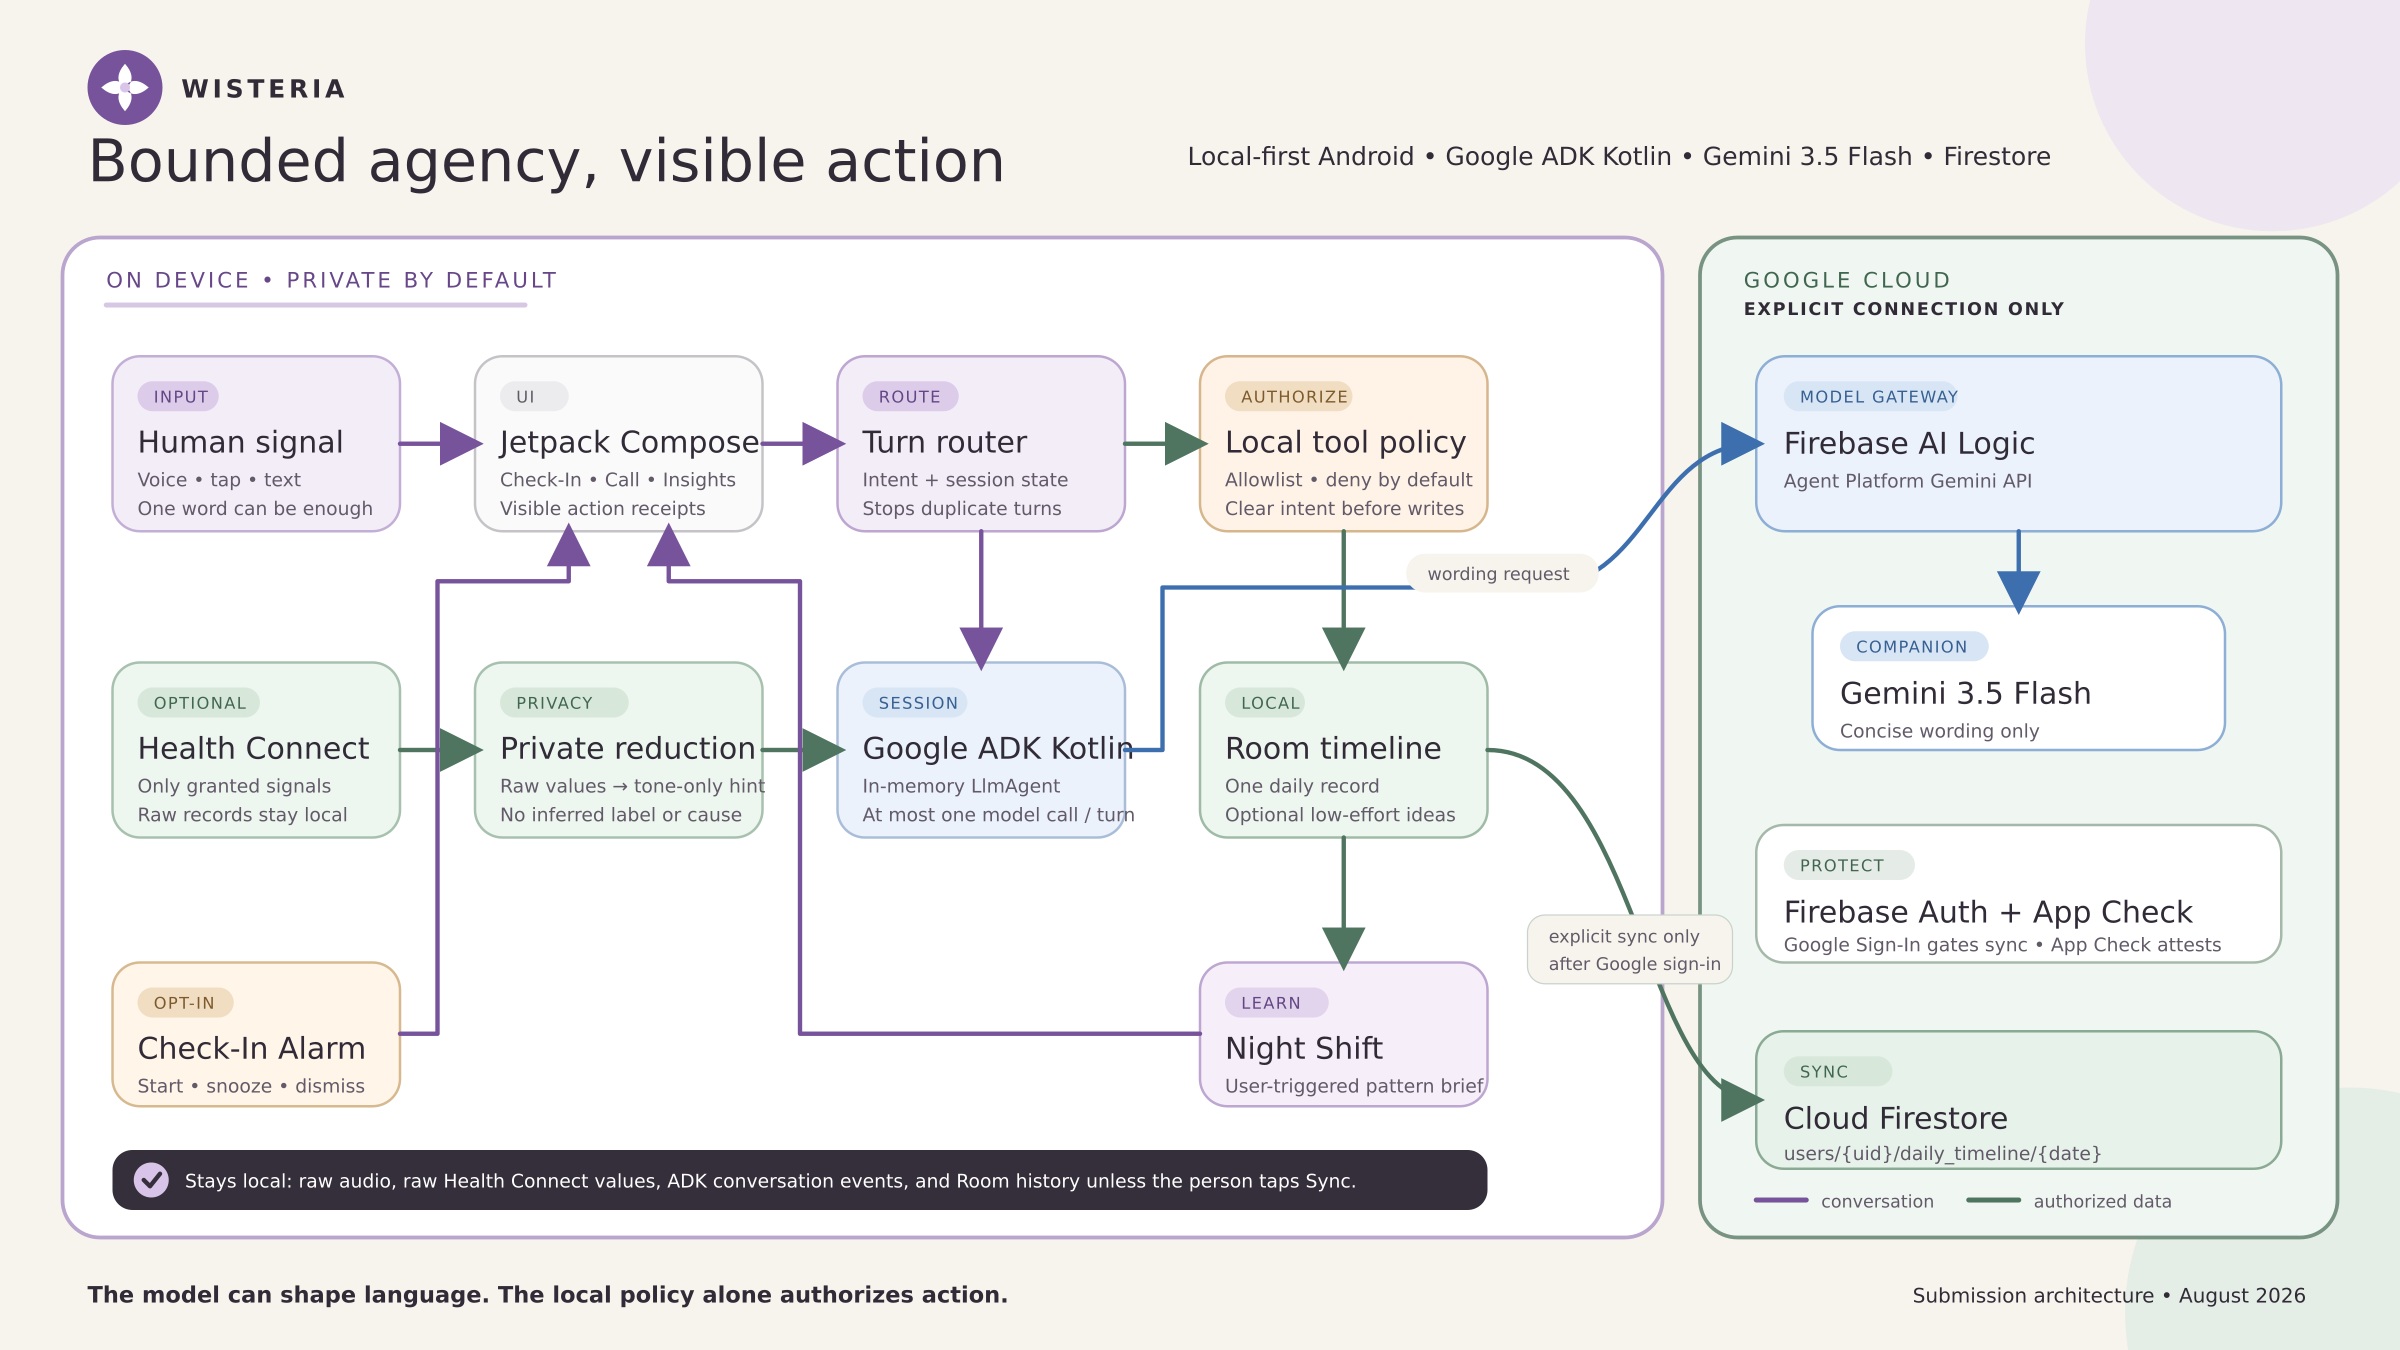
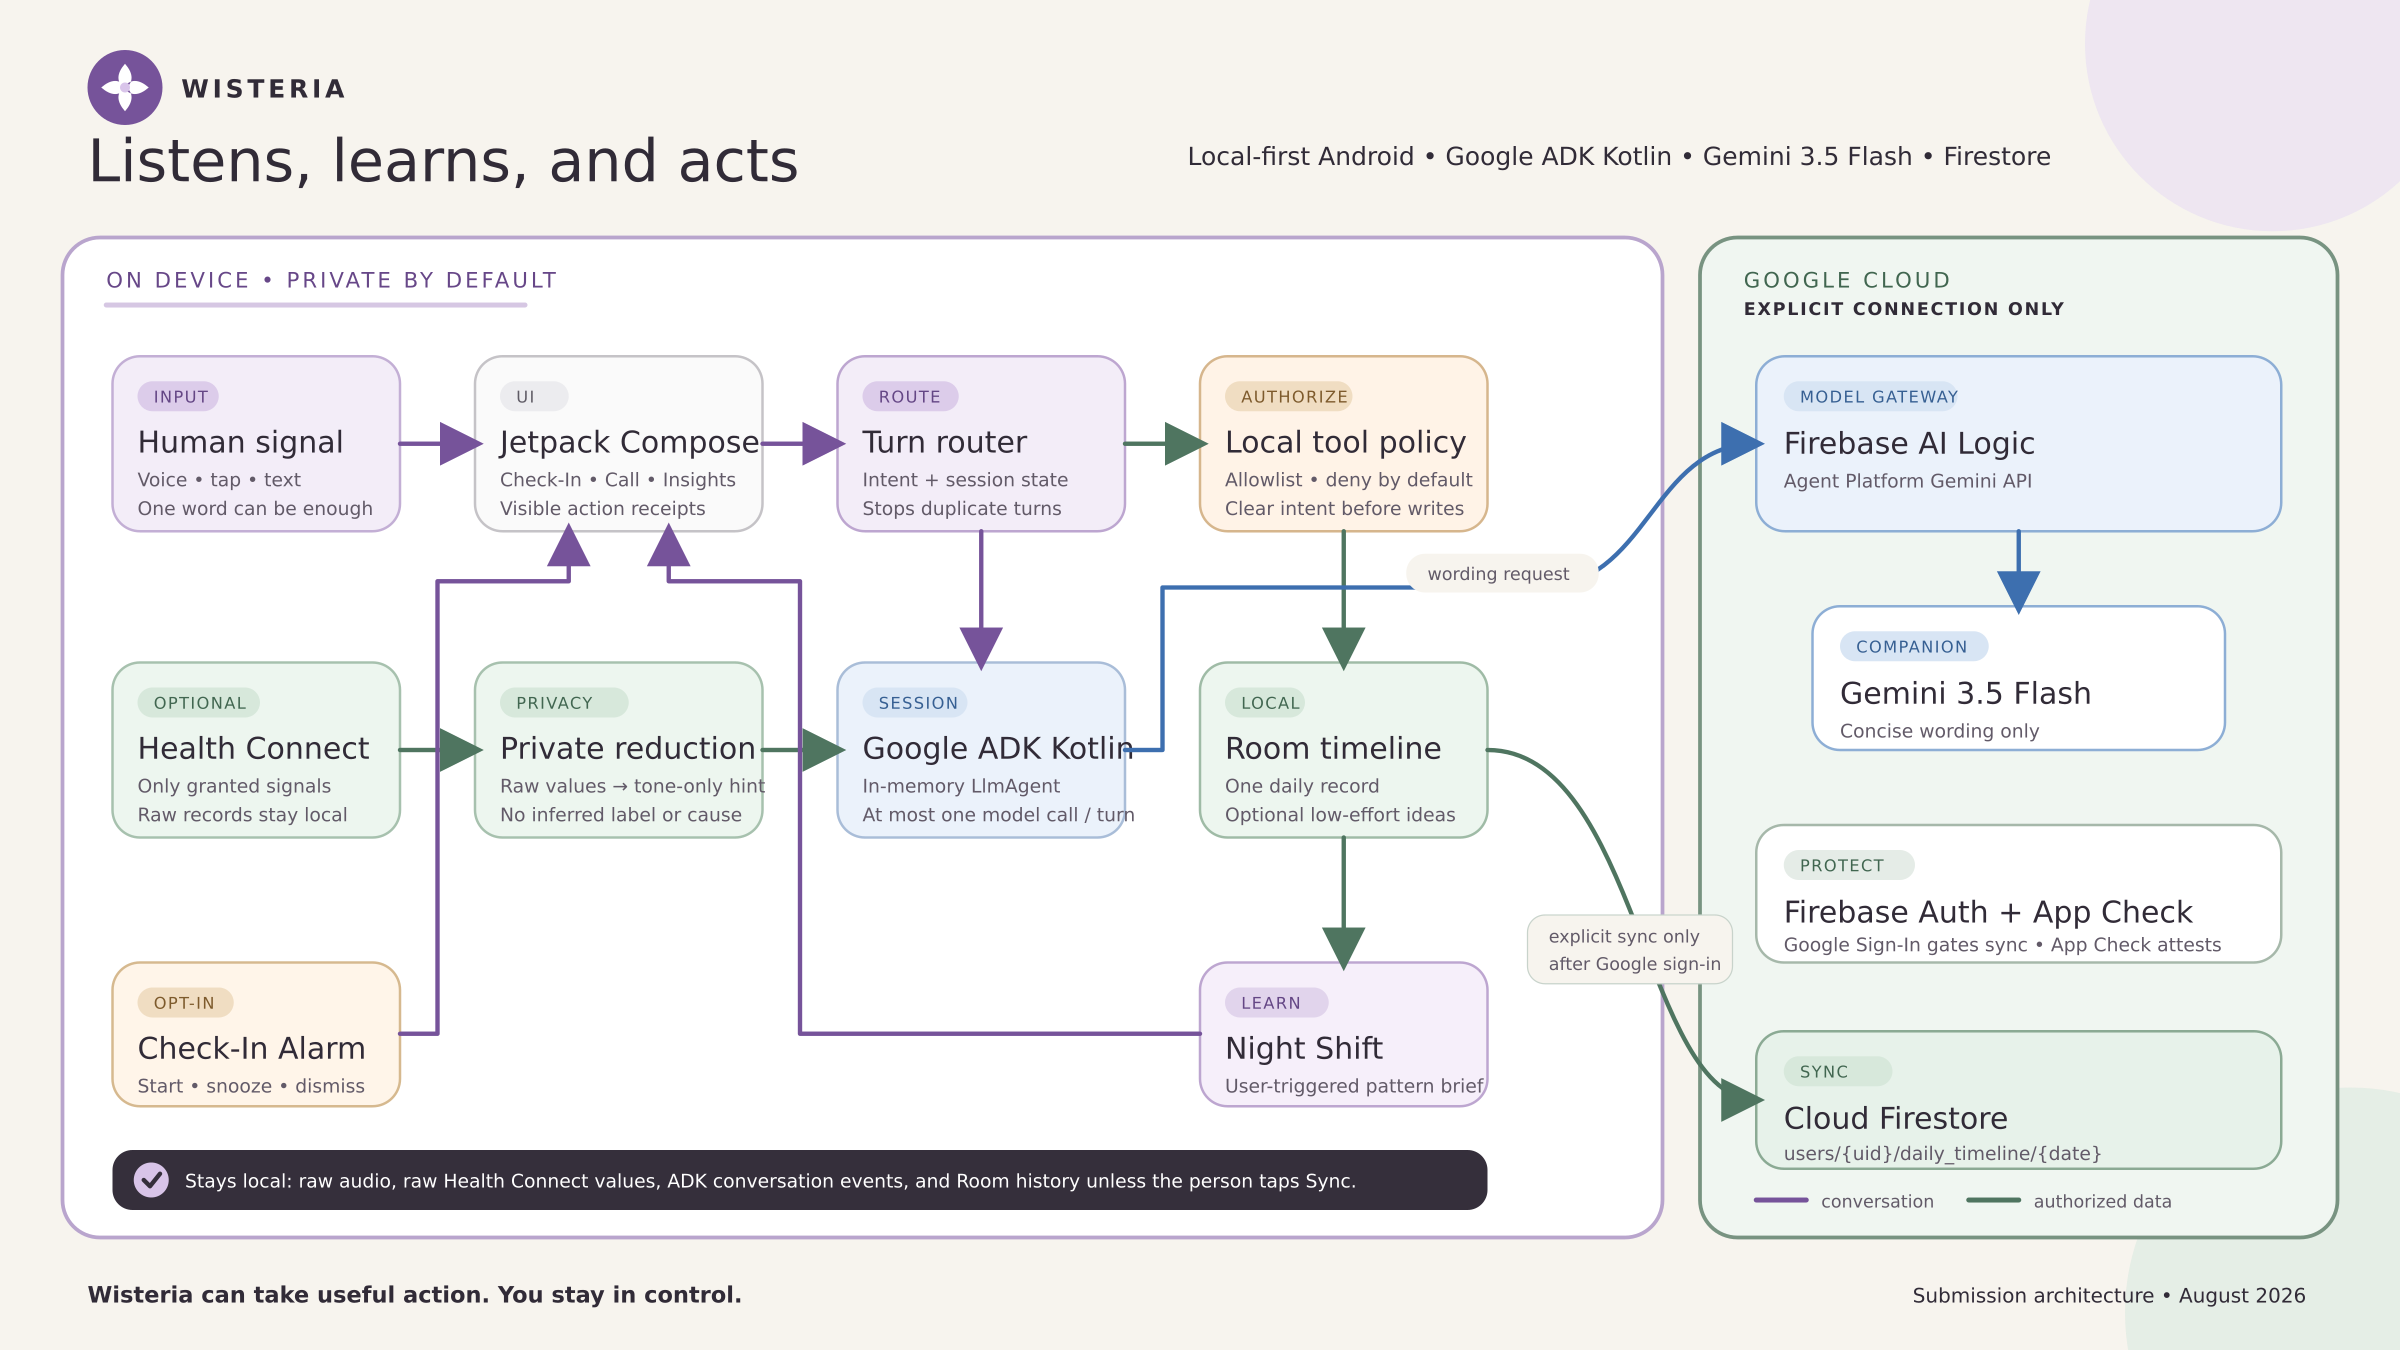
Use plain language for Wisteria's agent story

Changed region(s): [[0.0312, 0.0933, 0.4062, 0.1556], [0.0312, 0.9333, 0.4062, 0.9644]]

diff --git a/docs/DEVPOST_SUBMISSION.md b/docs/DEVPOST_SUBMISSION.md
@@ -21,7 +21,7 @@ This file is the copy-and-check source for the All Things Agentic Hackathon subm
 
 Some days, the hardest part of self-reflection is finding a full sentence. Wisteria accepts a number, a tap, or an everyday phrase such as “I feel off,” turns it into one gentle daily record, and stays present for a follow-up without accidentally logging the conversation twice. Over time, its user-triggered Night Shift notices recurring heavy-to-off stretches and prepares a plain-language brief with visible confidence and evidence.
 
-Wisteria is intentionally agentic without being quietly authoritative. Google ADK Kotlin holds the in-memory companion session and Gemini 3.5 Flash shapes concise wording through Firebase AI Logic. A deterministic local router classifies each turn before a deny-by-default tool policy decides whether anything may be written. The model cannot change alerts, contact anyone, infer a condition, or silently sync data.
+Wisteria can act without taking control away from the person. Google ADK Kotlin keeps the conversation together, and Gemini 3.5 Flash helps Wisteria respond through Firebase AI Logic. Small local rules decide whether anything may be saved. The model cannot change alerts, contact anyone, infer a condition, or silently sync data.
 
 ## Inspiration
 
@@ -52,7 +52,7 @@ The answer became a companion that meets the person where they are, remembers on
 6. Night Shift can synthesize the local timeline into a pattern brief when the person requests it.
 7. Firestore receives the current entry only after Google Sign-In and a separate tap on **Sync Firestore**.
 
-This separation is the core design choice: the model may shape language, while deterministic local code remains the final authority over action.
+This separation is the core design choice: Gemini helps Wisteria choose its words, while small local rules decide what Wisteria may do.
 
 ## Google technology used
 

diff --git a/docs/DEMO_SCRIPT.md b/docs/DEMO_SCRIPT.md
@@ -48,7 +48,7 @@ Keep this section as one uncut take. Let Wisteria finish the turn and briefly ho
 
 On-screen label: **Session-aware • duplicate-safe**
 
-### 1:05–1:38 — Show bounded action
+### 1:05–1:38 — Show action with clear permission
 
 **Picture:** Open Insights. Show the single saved check-in and optional ideas. Mark one idea complete. Briefly reveal the action receipt or architecture screen.
 
@@ -100,7 +100,7 @@ On-screen label: **Cloud Firestore • Firebase AI Logic • Gemini 3.5 Flash**
 
 **Narration:**
 
-> Wisteria is a Collaborative Partner built around bounded agency: it can listen, remember the turn, take a useful action, and learn a rhythm—without gaining silent authority over the person. Three seconds in; something useful back.
+> Wisteria is a Collaborative Partner that listens, remembers the turn, takes useful action, and learns a rhythm—while the person stays in control. Three seconds in; something useful back.
 
 End card, no longer than two seconds:
 

diff --git a/README.md b/README.md
@@ -76,7 +76,7 @@ Google ADK Kotlin is used for the optional Firebase-backed dialogue runtime and 
 
 [![Wisteria architecture: local inputs pass through a local router and tool policy, Google ADK reaches Gemini through Firebase AI Logic, and Firestore receives only explicit syncs.](docs/wisteria-architecture.png)](docs/wisteria-architecture.png)
 
-The editable vector source is [`docs/wisteria-architecture.svg`](docs/wisteria-architecture.svg). The model shapes companion wording; the deterministic local policy remains the final authority over writes.
+The editable vector source is [`docs/wisteria-architecture.svg`](docs/wisteria-architecture.svg). Gemini helps with the wording; small local rules decide when Wisteria may save or change anything.
 
 ## Run locally
 
